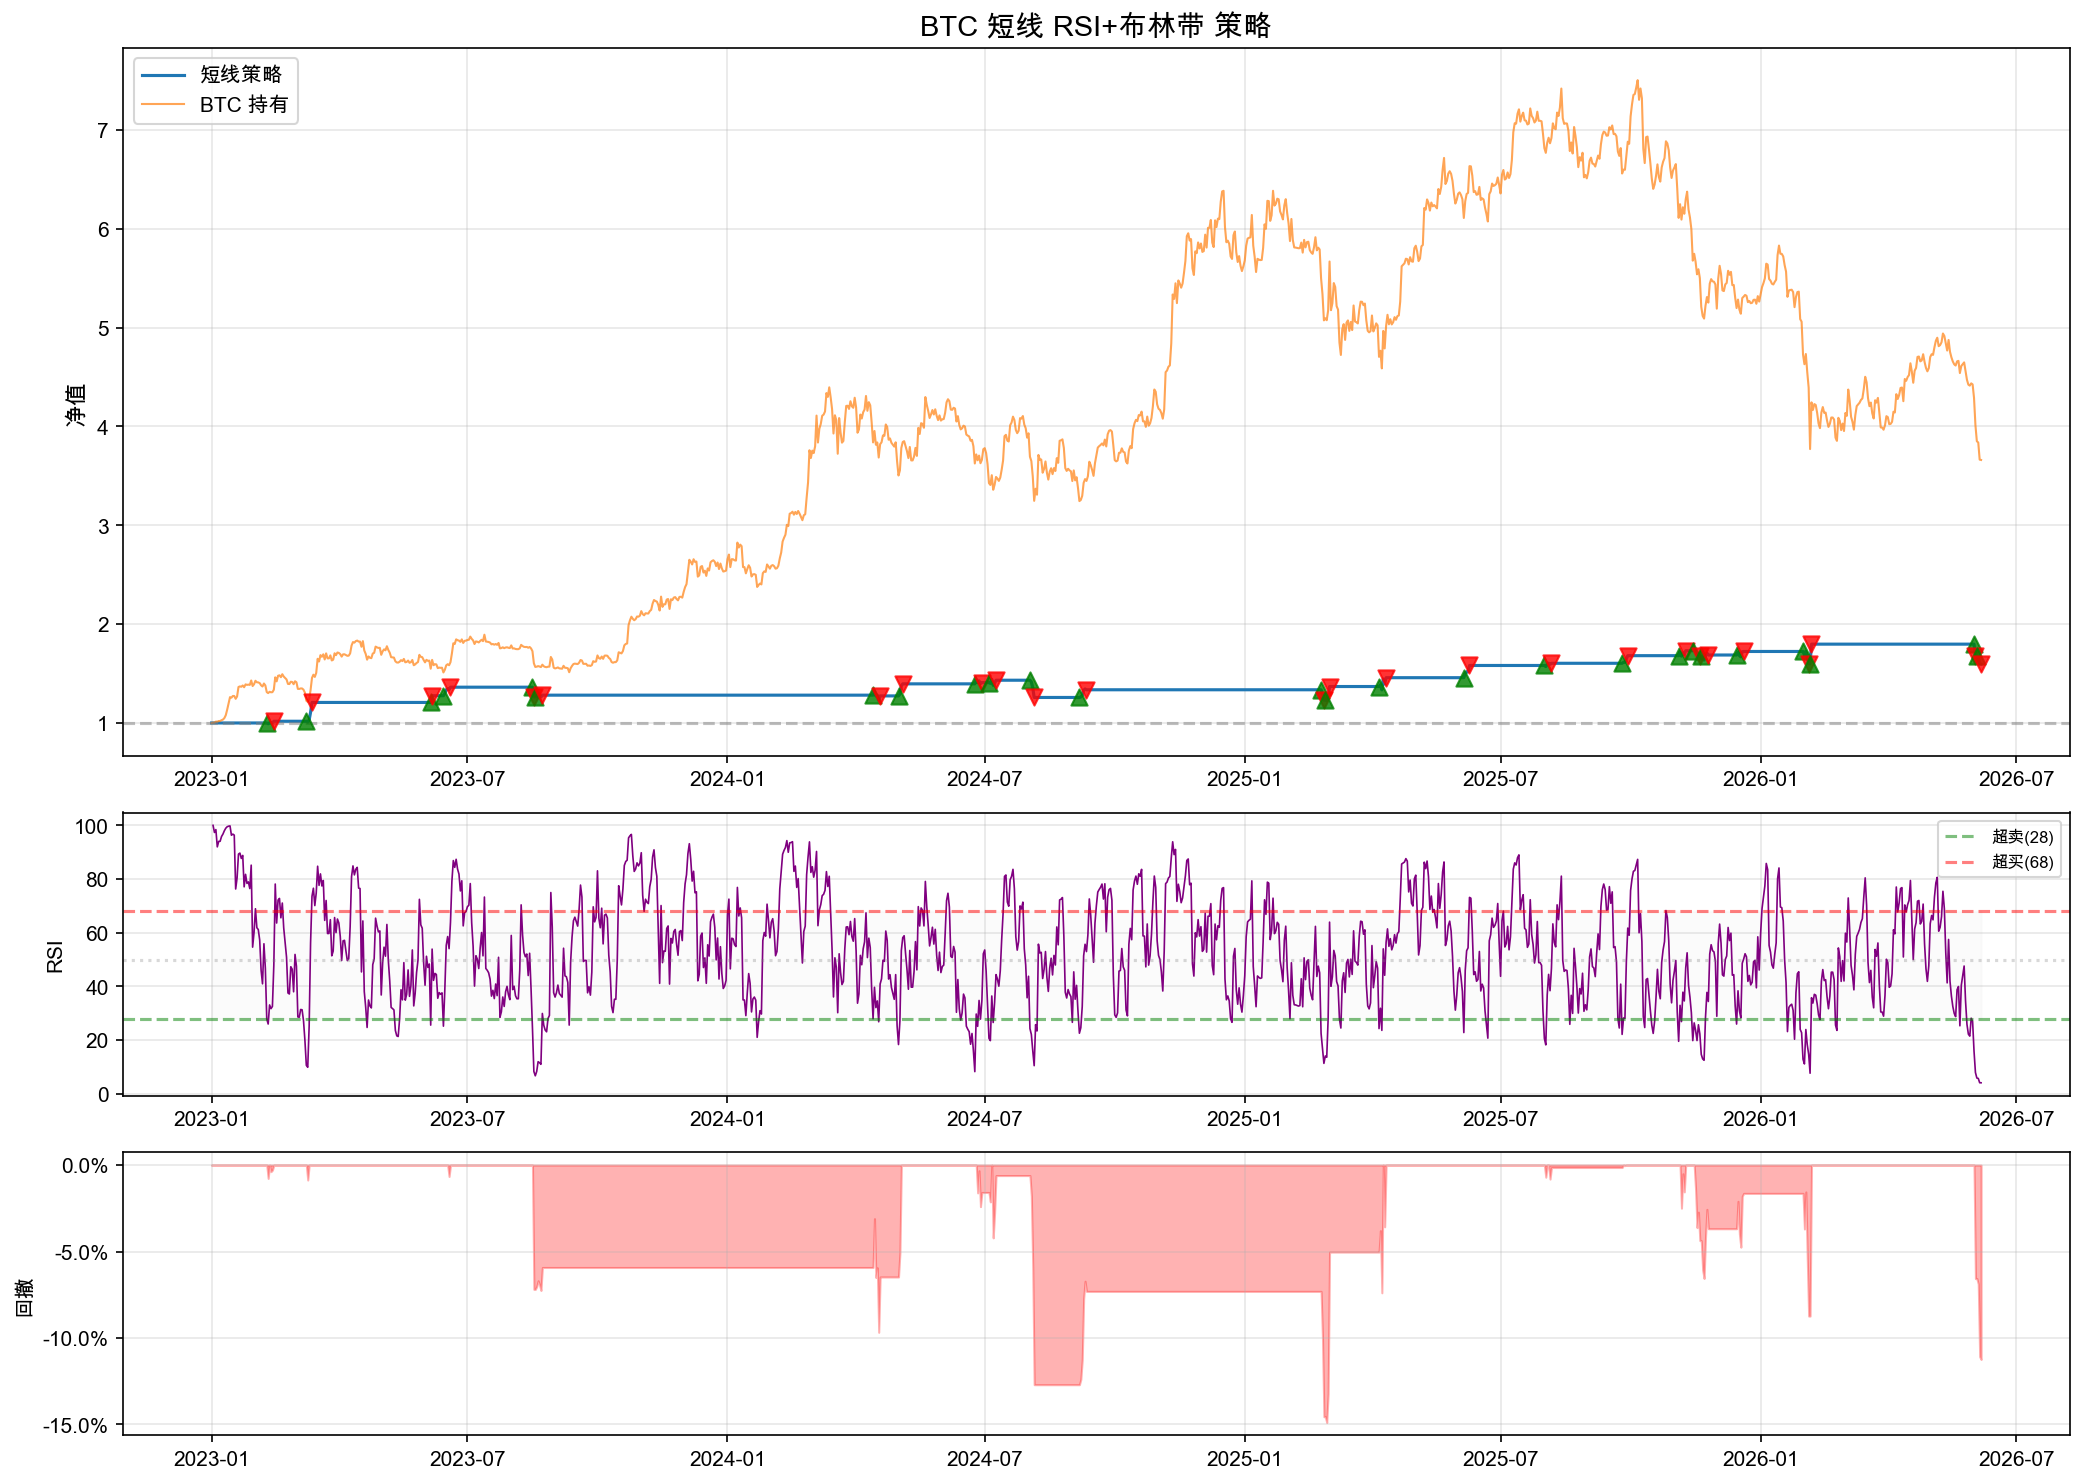
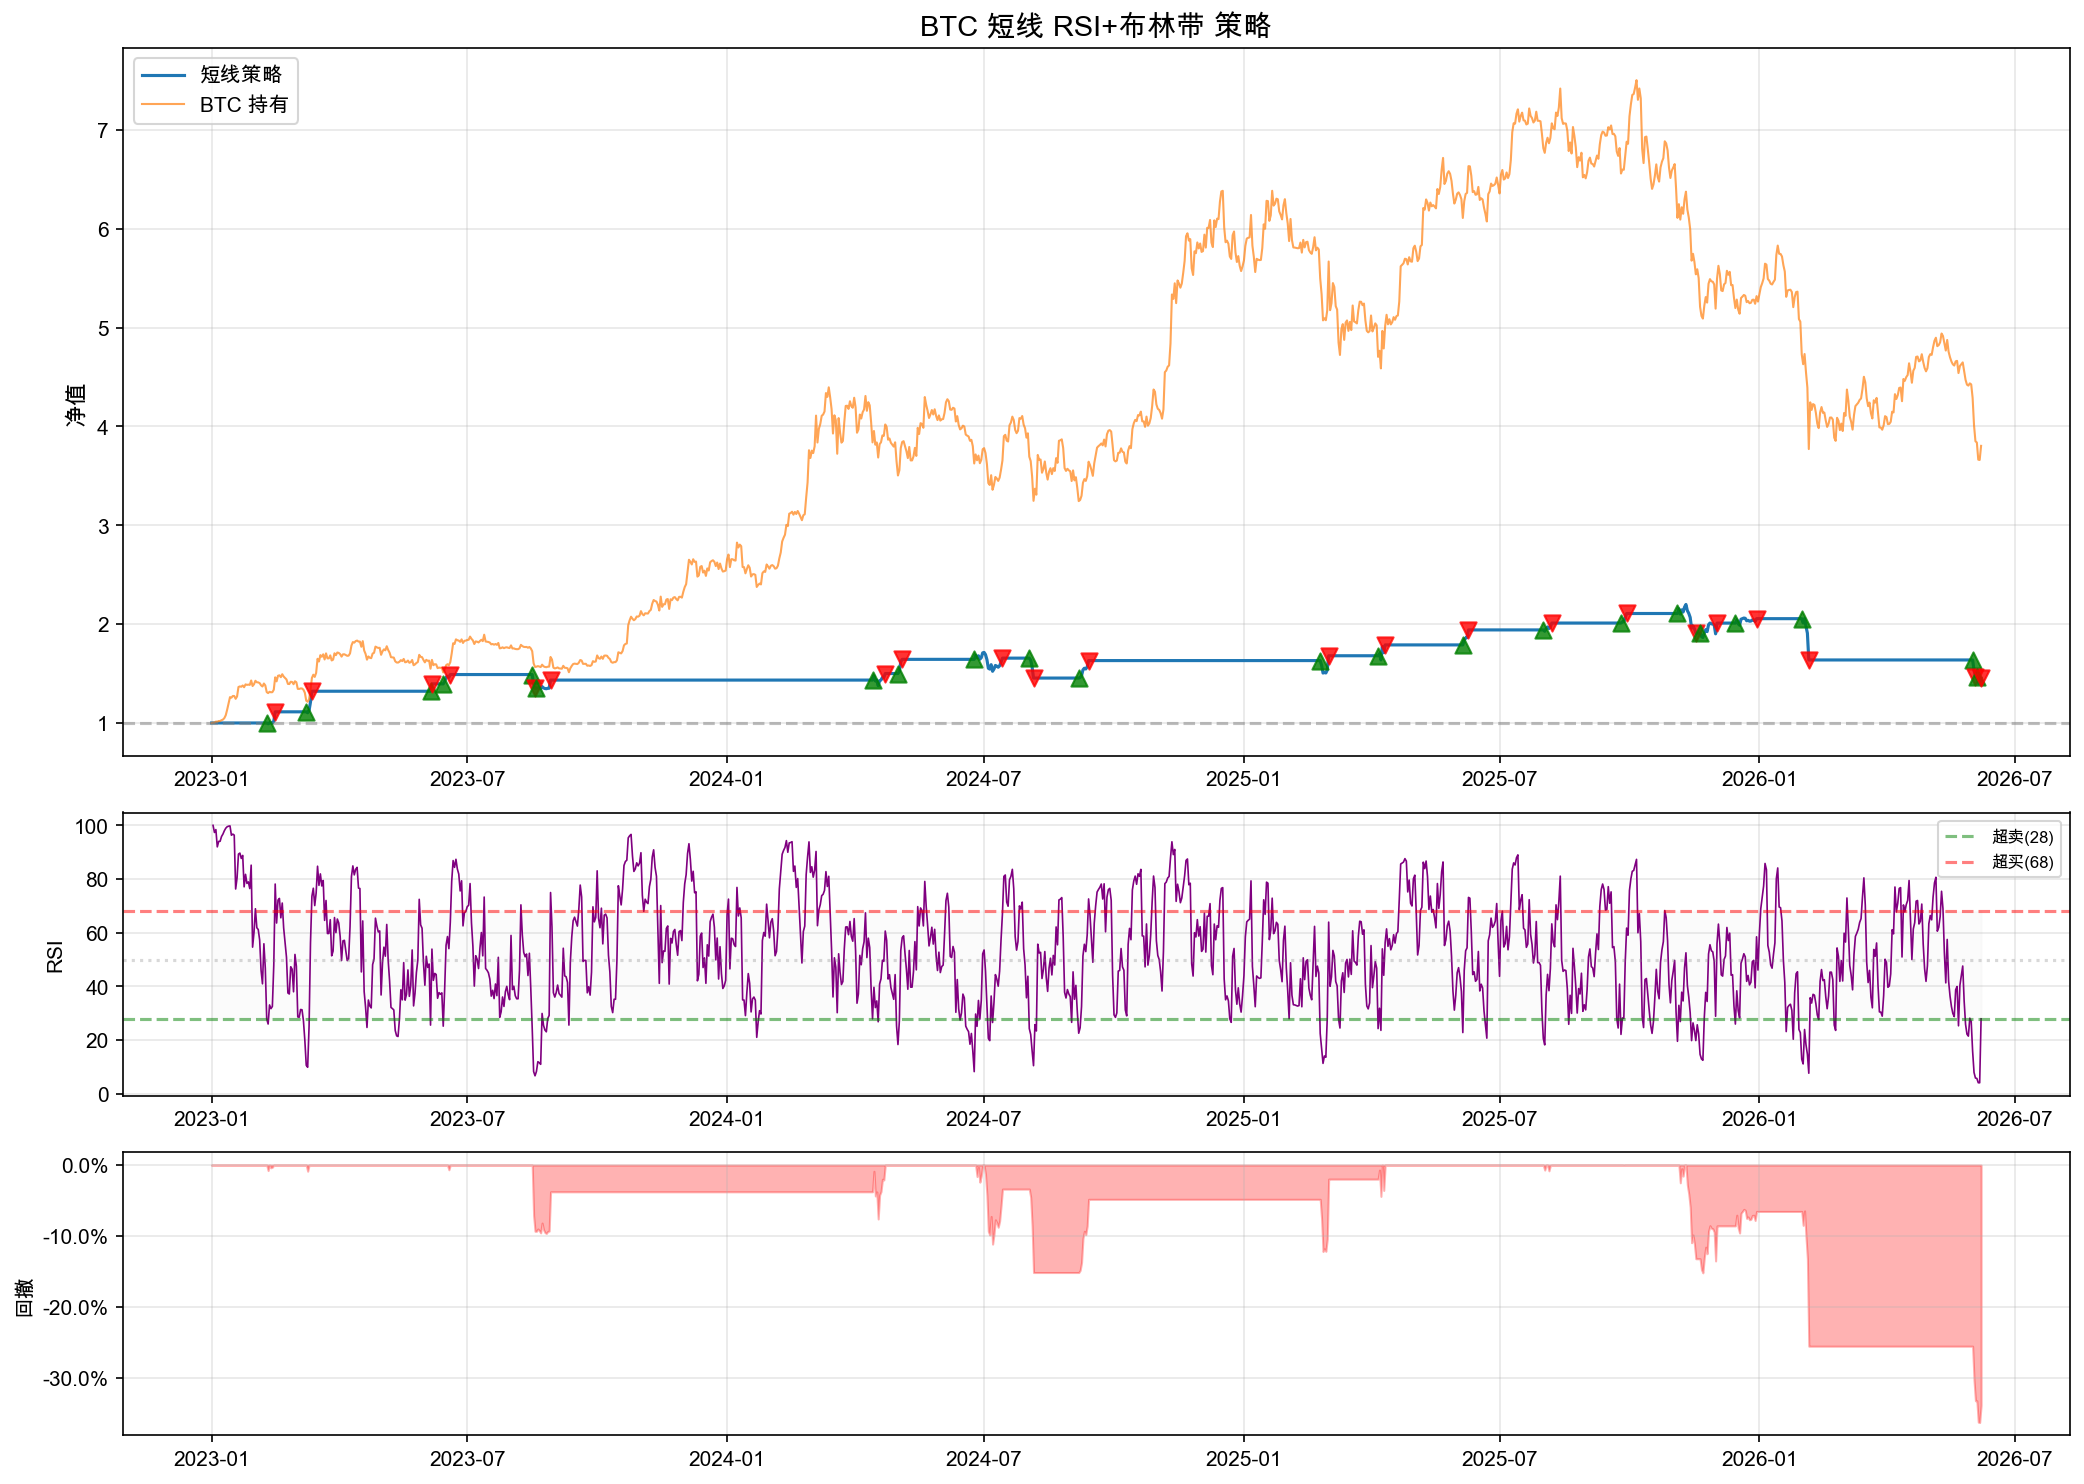
feat: BTC 5倍杠杆超短线策略

diff --git a/crypto_scalping.py b/crypto_scalping.py
@@ -1,0 +1,286 @@
+"""
+BTC 杠杆超短线策略
+- 5x 杠杆做 BTC 永续合约
+- RSI 极端超卖抄底，快速止盈
+- 紧止损，靠胜率吃饭
+
+用法:
+    python crypto_scalping.py
+    python crypto_scalping.py --quick
+"""
+
+import argparse, time
+import numpy as np
+import pandas as pd
+import yfinance as yf
+import matplotlib.pyplot as plt
+import matplotlib.ticker as mticker
+
+plt.rcParams["font.sans-serif"] = ["Arial Unicode MS", "Heiti SC", "PingFang SC"]
+plt.rcParams["axes.unicode_minus"] = False
+
+# ============================================================
+# 策略参数
+# ============================================================
+LEVERAGE = 5                # 5 倍杠杆
+CAPITAL = 10_000            # 初始本金 $10,000
+RISK_PER_TRADE = 0.02       # 每笔风险 = 本金的 2%
+TP_PRICE_PCT = 0.012        # 止盈：价格涨 1.2%（×5 = 仓位赚 6%）
+SL_PRICE_PCT = 0.005        # 止损：价格跌 0.5%（×5 = 仓位亏 2.5%）
+RSI_PERIOD = 4              # 超短 RSI（4 根 K 线）
+RSI_ENTRY = 18              # 极端超卖才进
+MIN_VOL_SPIKE = 1.5         # 成交量要放大 1.5 倍（恐慌抛售确认）
+TRAILING_STOP = 0.003       # 移动止盈：从最高点回撤 0.3% 就锁定利润
+MAX_HOLD_BARS = 3           # 最长持仓 3 天
+FEE = 0.0004                # 永续合约手续费 0.04%
+SLIPPAGE = 0.0002           # 滑点 0.02%
+TRADING_DAYS = 365
+
+
+def compute_rsi(close: pd.Series, period: int) -> pd.Series:
+    delta = close.diff()
+    gain = delta.clip(lower=0)
+    loss = (-delta).clip(lower=0)
+    avg_gain = gain.ewm(alpha=1/period, adjust=False).mean()
+    avg_loss = loss.ewm(alpha=1/period, adjust=False).mean()
+    rs = avg_gain / avg_loss.replace(0, 1e-10)
+    return 100.0 - (100.0 / (1.0 + rs))
+
+
+def run_scalping(quick: bool = False):
+    t0 = time.time()
+
+    # ---- 数据 ----
+    print("[Scalp] 获取 BTC 数据...")
+    df = yf.Ticker("BTC-USD").history(start="2023-01-01", end="2026-06-08")
+    df = df.reset_index()
+    df.columns = [c.lower() for c in df.columns]
+    df["date"] = pd.to_datetime(df["date"]).dt.tz_localize(None)
+    if quick:
+        df = df[df["date"] >= "2025-01-01"]
+
+    # ---- 指标 ----
+    df["rsi"] = compute_rsi(df["close"], RSI_PERIOD)
+    df["atr14"] = (df["high"] - df["low"]).rolling(14).mean()
+    df["vol_ma20"] = df["volume"].rolling(20).mean()
+    df["vol_ratio"] = df["volume"] / df["vol_ma20"]
+    df["prev_low"] = df["low"].shift(1)
+
+    # ---- 回测 ----
+    equity = float(CAPITAL)                     # 账户权益
+    position_value = 0.0                        # 仓位名义价值
+    entry_price = 0.0
+    highest_since_entry = 0.0
+    bars_held = 0
+    in_position = False
+    trades = []
+    nav = []
+
+    for i, row in df.iterrows():
+        if i < 30:
+            nav.append({"date": row["date"], "equity": equity})
+            continue
+
+        date = row["date"]
+        price = row["close"]
+        price_high = row["high"]
+        price_low = row["low"]
+        rsi_val = row["rsi"]
+        vol_ratio = row["vol_ratio"]
+
+        # ==== 持仓中：检查平仓 ====
+        if in_position:
+            bars_held += 1
+            # 用日内最高价更新（模拟盯盘）
+            highest_since_entry = max(highest_since_entry, price_high)
+
+            # 未实现盈亏（价格变化）
+            unreal_pnl_pct = (price - entry_price) / entry_price
+            leveraged_pnl = unreal_pnl_pct * LEVERAGE
+
+            exit_price = None
+            exit_reason = ""
+
+            # ① 硬止损
+            if unreal_pnl_pct <= -SL_PRICE_PCT:
+                exit_price = entry_price * (1 - SL_PRICE_PCT)
+                exit_reason = "止损"
+            # ② 硬止盈
+            elif unreal_pnl_pct >= TP_PRICE_PCT:
+                exit_price = entry_price * (1 + TP_PRICE_PCT)
+                exit_reason = "止盈"
+            # ③ 移动止盈：从最高点回落
+            elif highest_since_entry > entry_price:
+                drawdown_from_peak = (highest_since_entry - price) / entry_price
+                if drawdown_from_peak > TRAILING_STOP and unreal_pnl_pct > 0:
+                    exit_price = price
+                    exit_reason = "移动止盈"
+            # ④ 超时
+            elif bars_held >= MAX_HOLD_BARS:
+                exit_price = price
+                exit_reason = f"超时{bars_held}天"
+            # ⑤ RSI 过热
+            elif not pd.isna(rsi_val) and rsi_val > 75:
+                exit_price = price
+                exit_reason = f"RSI过热"
+
+            if exit_price is not None:
+                exit_slip = exit_price * (1 - SLIPPAGE)
+                pnl_pct = (exit_slip / entry_price - 1) * LEVERAGE
+                pnl_dollar = position_value * pnl_pct - position_value * FEE * 2
+                equity += pnl_dollar
+                if equity <= 0:
+                    equity = 0.01  # 爆仓保护
+
+                trades.append({
+                    "entry_date": entry_date, "exit_date": date,
+                    "entry": entry_price, "exit": exit_slip,
+                    "pnl_pct": pnl_pct * 100, "pnl_$": pnl_dollar,
+                    "reason": exit_reason, "bars": bars_held,
+                })
+                position_value = 0
+                in_position = False
+
+        # ==== 空仓中：看入场信号 ====
+        if not in_position and not pd.isna(rsi_val):
+            # 入场：RSI 极端超卖 + 放量（恐慌抛售 = 抄底机会）
+            panic_sell = rsi_val < RSI_ENTRY and vol_ratio > MIN_VOL_SPIKE
+            # 确认：当前价高于当日最低价（有反弹迹象）
+            reversal = price > price_low * 1.002
+
+            if panic_sell and reversal:
+                # 仓位计算：风险 = 本金 × 2%，止损价差 = entry × SL_PRICE_PCT
+                risk_amount = equity * RISK_PER_TRADE
+                price_risk = price * SL_PRICE_PCT * LEVERAGE
+                if price_risk > 0:
+                    position_value = risk_amount / (SL_PRICE_PCT * LEVERAGE)
+                else:
+                    position_value = equity * LEVERAGE * 0.5
+
+                # 不能超过可用杠杆
+                max_position = equity * LEVERAGE
+                position_value = min(position_value, max_position)
+
+                entry_price = price * (1 + SLIPPAGE)  # 买入滑点
+                highest_since_entry = entry_price
+                entry_date = date
+                bars_held = 0
+                in_position = True
+
+        # ==== 记录权益 ====
+        if in_position:
+            mark_price = price
+            unreal = (mark_price / entry_price - 1) * LEVERAGE
+            total_equity = equity + position_value * unreal
+        else:
+            total_equity = equity
+
+        nav.append({"date": date, "equity": total_equity,
+                    "in_position": in_position, "price": price})
+
+    # ---- 绩效 ----
+    nav_df = pd.DataFrame(nav).set_index("date")
+    final_eq = nav_df["equity"].iloc[-1]
+    total_ret = (final_eq / CAPITAL) - 1
+    total_days = len(nav_df)
+    ann_ret = (final_eq / CAPITAL) ** (TRADING_DAYS / total_days) - 1
+
+    returns = nav_df["equity"].pct_change().dropna()
+    ann_vol = float(returns.std() * np.sqrt(TRADING_DAYS))
+    sharpe = (ann_ret - 0.03) / ann_vol if ann_vol > 0 else 0
+
+    peak = nav_df["equity"].expanding().max()
+    max_dd = float(((nav_df["equity"] - peak) / peak).min())
+
+    btc_init = nav_df["price"].iloc[0]
+    btc_final = nav_df["price"].iloc[-1]
+    btc_ann = (btc_final / btc_init) ** (TRADING_DAYS / total_days) - 1
+
+    sell_trades = [t for t in trades]
+    win_trades = [t for t in sell_trades if t["pnl_$"] > 0]
+    win_rate = len(win_trades) / len(sell_trades) if sell_trades else 0
+    total_pnl = sum(t["pnl_$"] for t in trades)
+    avg_win = np.mean([t["pnl_pct"] for t in win_trades]) / LEVERAGE if win_trades else 0
+    avg_loss = np.mean([t["pnl_pct"] for t in sell_trades if t["pnl_$"] <= 0]) / LEVERAGE if sell_trades else 0
+    avg_bars = np.mean([t["bars"] for t in sell_trades]) if sell_trades else 0
+    total_fees = sum(position_value * FEE * 2 for _ in trades)
+    # 近似
+    total_trades = len(trades)
+
+    # ---- 画图 ----
+    fig, axes = plt.subplots(3, 1, figsize=(14, 10),
+                             gridspec_kw={"height_ratios": [2.5, 1, 1]})
+
+    ax1 = axes[0]
+    ax1.plot(nav_df.index, nav_df["equity"] / CAPITAL,
+             label=f"杠杆超短线 (5x)", color="#1f77b4", linewidth=1.5)
+    btc_nav = nav_df["price"] / btc_init
+    ax1.plot(nav_df.index, btc_nav, label="BTC 现货持有",
+             color="#ff7f0e", linewidth=1.0, alpha=0.7)
+    ax1.axhline(y=1.0, color="gray", linestyle="--", alpha=0.5)
+    # 标注交易区间
+    for t in trades:
+        ax1.axvspan(t["entry_date"], t["exit_date"], alpha=0.1,
+                    color="green" if t["pnl_$"] > 0 else "red")
+    ax1.set_title("BTC 杠杆超短线 (5x) · RSI 恐慌抄底", fontsize=14, fontweight="bold")
+    ax1.set_ylabel("净值", fontsize=11)
+    ax1.legend(loc="upper left")
+    ax1.grid(True, alpha=0.3)
+
+    ax2 = axes[1]
+    ax2.bar(range(len(trades)), [t["pnl_pct"] for t in trades],
+            color=["green" if t["pnl_$"] > 0 else "red" for t in trades], alpha=0.7)
+    ax2.axhline(y=0, color="gray", linewidth=0.5)
+    ax2.set_ylabel("每笔盈亏 %", fontsize=10)
+    ax2.set_title(f"每笔交易盈亏（{len(trades)}笔，胜率{win_rate*100:.0f}%）", fontsize=11)
+    ax2.grid(True, alpha=0.3, axis="y")
+
+    ax3 = axes[2]
+    dd = (nav_df["equity"] - nav_df["equity"].expanding().max()) / nav_df["equity"].expanding().max()
+    ax3.fill_between(dd.index, dd.values, 0, color="red", alpha=0.3)
+    ax3.set_ylabel("回撤", fontsize=10)
+    ax3.yaxis.set_major_formatter(mticker.PercentFormatter(xmax=1.0))
+    ax3.grid(True, alpha=0.3)
+
+    plt.tight_layout()
+    plt.savefig("crypto_scalping.png", dpi=150, bbox_inches="tight")
+    print("[Scalp] 图表已保存: crypto_scalping.png")
+
+    print(f"\n{'='*60}")
+    print(f"  BTC 杠杆超短线 (5x) · 绩效报告")
+    print(f"{'='*60}")
+    print(f"  初始本金:       ${CAPITAL:,.0f}")
+    print(f"  最终权益:       ${final_eq:,.0f}")
+    print(f"  总收益率:        {total_ret*100:.1f}%")
+    print(f"  年化收益:        {ann_ret*100:.1f}%")
+    print(f"  年化波动:        {ann_vol*100:.1f}%")
+    print(f"  夏普比率:         {sharpe:.2f}")
+    print(f"  最大回撤:         {max_dd*100:.1f}%")
+    print(f"  ──────────────────────────────")
+    print(f"  交易次数:         {total_trades}")
+    print(f"  胜率:             {win_rate*100:.0f}%")
+    print(f"  总盈亏:           ${total_pnl:,.0f}")
+    print(f"  平均价格盈利:      {avg_win*100:.2f}%")
+    print(f"  平均价格亏损:      {avg_loss*100:.2f}%")
+    print(f"  平均持仓:          {avg_bars:.1f} 天")
+    print(f"  ──────────────────────────────")
+    print(f"  BTC 现货年化:     {btc_ann*100:.1f}%")
+    print(f"  策略 vs BTC:      {(ann_ret-btc_ann)*100:.1f}%")
+    print(f"{'='*60}")
+
+    print(f"\n  最近 10 笔交易:")
+    for t in trades[-10:]:
+        emoji = "🟢" if t["pnl_$"] > 0 else "🔴"
+        print(f"  {emoji} {str(t['entry_date'])[:10]} → {str(t['exit_date'])[:10]}  "
+              f"${t['entry']:,.0f} → ${t['exit']:,.0f}  "
+              f"{t['pnl_pct']:+.1f}%  {t['reason']}")
+
+    elapsed = time.time() - t0
+    print(f"\n  Total: {elapsed:.1f}s")
+
+
+if __name__ == "__main__":
+    parser = argparse.ArgumentParser(description="BTC 杠杆超短线")
+    parser.add_argument("--quick", action="store_true")
+    args = parser.parse_args()
+    run_scalping(quick=args.quick)

diff --git a/crypto_short_term.py b/crypto_short_term.py
@@ -24,9 +24,9 @@ RSI_OVERSOLD = 28           # 超卖阈值（买入信号）
 RSI_OVERBOUGHT = 68         # 超买阈值（卖出信号）
 BB_PERIOD = 20              # 布林带周期
 BB_STD = 2.0                # 布林带标准差倍数
-STOP_LOSS = -0.06           # 止损 -6%
-TAKE_PROFIT = 0.12          # 止盈 +12%
-MAX_HOLD_DAYS = 5           # 最长持仓 5 天
+STOP_LOSS = -0.08           # 止损 -8%（放宽）
+TAKE_PROFIT = 0.20          # 止盈 +20%（放宽）
+MAX_HOLD_DAYS = 60          # 最长持仓 60 天（基本不限）
 INITIAL_CAPITAL = 100_000   # 初始 10 万 USDT
 TRADING_DAYS_PER_YEAR = 365
 RISK_FREE_RATE = 0.03
